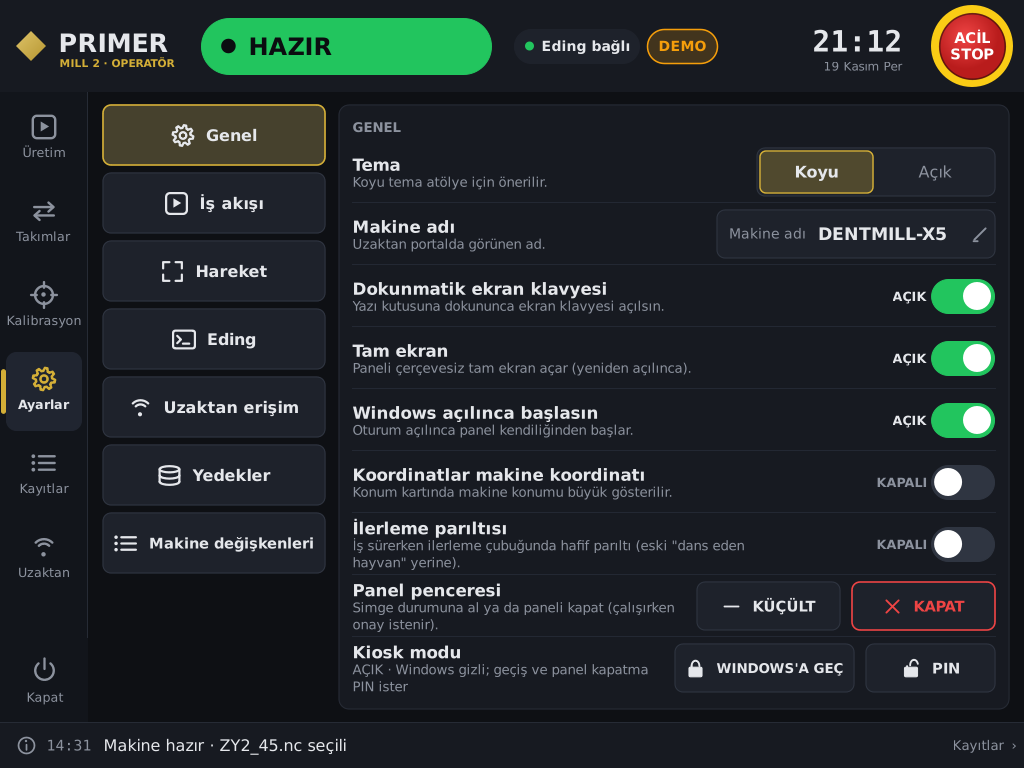
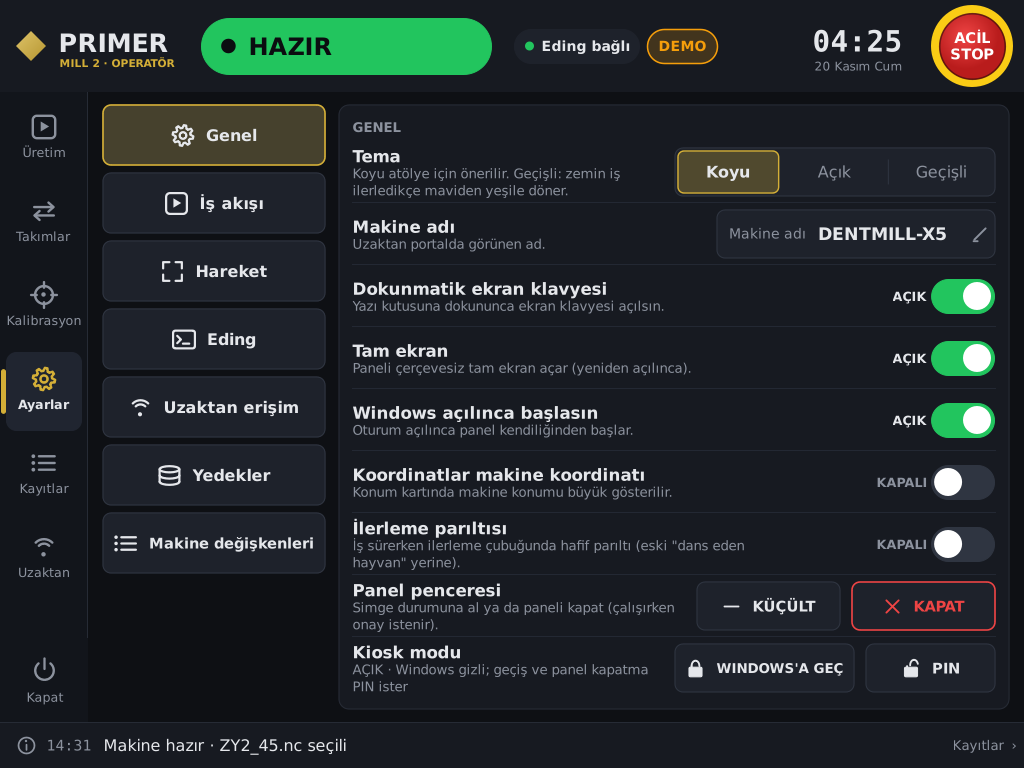
Gecisli tema: testler, ekran goruntuleri ve belgeler
Denetleyici_Testi: Tema-Normalle, ayar.kaydet Tema=gecisli/bilinmeyen, panel_ayarlar.ini, IsAktif.
EkranGoruntusu.cs: Uretim %0/%50/%100 (1024), %64 (1920), Ayarlar > Genel (Gecisli); Ayarlar > Genel
koyu goruntuleri yenilendi. ARAYUZ_API.md (Kabuk uyeleri, Tema anahtari, IsAktif, ozellik 15.6),
TASARIM.md 5 (Gecisli tema uclari, esleme, yumusatma), KURULUM_VE_DENEME.md demo adimi.

Claude-Session: https://claude.ai/code/session_01AzwqC4ZEM5pcPdzvYXdH7g

diff --git a/PrimerMill_Kod_Inceleme/tests/ui/EkranGoruntusu.cs b/PrimerMill_Kod_Inceleme/tests/ui/EkranGoruntusu.cs
@@ -16,7 +16,7 @@ static class EkranGoruntusu
     {
         public string Dosya;
         public int W, H;
-        public bool Koyu = true;
+        public TemaModu Mod = TemaModu.Koyu;
         public Action Hazirla;
     }
 
@@ -64,8 +64,9 @@ static class EkranGoruntusu
         if (sira >= adimlar.Count) { t.Stop(); Console.WriteLine(adimlar.Count + " ekran görüntüsü: " + cikis); k.Close(); return; }
         var a = adimlar[sira];
         if (k.Size.Width != a.W || k.Size.Height != a.H) { k.Size = new Size(a.W, a.H); k.Location = Point.Empty; }
-        if (Tema.Koyu != a.Koyu) k.TemaUygula(a.Koyu);
+        if (Tema.Mod != a.Mod) k.TemaUygula(a.Mod);
         try { a.Hazirla(); } catch (Exception ex) { Console.WriteLine("HATA " + a.Dosya + ": " + ex); }
+        k.GecisiTamamla(); // Geçişli: yumuşak geçişi beklemeden hedef renk
         k.Refresh();
         bekle = 6; // ~600 ms: yerleşim, ilerleme animasyonu ve diyalog çizimi otursun
     }
@@ -83,7 +84,11 @@ static class EkranGoruntusu
 
     static void Ekle(string dosya, int w, int h, bool koyu, Action hazirla)
     {
-        adimlar.Add(new Adim { Dosya = dosya, W = w, H = h, Koyu = koyu, Hazirla = hazirla });
+        Ekle(dosya, w, h, koyu ? TemaModu.Koyu : TemaModu.Acik, hazirla);
+    }
+    static void Ekle(string dosya, int w, int h, TemaModu mod, Action hazirla)
+    {
+        adimlar.Add(new Adim { Dosya = dosya, W = w, H = h, Mod = mod, Hazirla = hazirla });
     }
 
     // -----------------------------------------------------------------------------------------
@@ -156,6 +161,13 @@ static class EkranGoruntusu
         Ekle(no() + "_takimlar_acik_1024.png", 1024, 768, false, () => { Uygula(Hazir(), IzinHazir()); Git("takimlar"); k.Takimlar.SekmeGoster(0); k.Takimlar.Sec("T2"); });
         Ekle(no() + "_kal_oto_adim4_acik_1024.png", 1024, 768, false, () => { var d = Hazir(); Oto(d, 3); Uygula(d, IzinHazir()); Git("kalibrasyon"); k.Kalibrasyon.Sayfa("oto"); });
         Ekle(no() + "_uretim_acik_1920.png", 1920, 1080, false, () => { Calisiyor(); Git("uretim"); });
+        // Geçişli tema: zemin iş ilerledikçe maviden (0) yeşile (1) döner
+        var G = TemaModu.Gecisli;
+        Ekle(no() + "_uretim_gecisli_0_1024.png", 1024, 768, G, () => { var d = Hazir(); Uygula(d, IzinHazir()); Git("uretim"); });
+        Ekle(no() + "_uretim_gecisli_50_1024.png", 1024, 768, G, () => { var d = Ornek(); d.Yuzde = 50; d.Satir = 34876; d.GecenSn = 33 * 60; d.KalanSn = 33 * 60; Uygula(d, IzinCalisiyor()); Git("uretim"); });
+        Ekle(no() + "_uretim_gecisli_100_1024.png", 1024, 768, G, () => { var d = Bitti(); Uygula(d, IzinHazir()); Git("uretim"); });
+        Ekle(no() + "_uretim_gecisli_64_1920.png", 1920, 1080, G, () => { Calisiyor(); Git("uretim"); });
+        Ekle(no() + "_ayarlar_genel_gecisli_1024.png", 1024, 768, G, () => { var d = Ornek(); d.Yuzde = 30; d.Kiosk = true; d.Ayarlar["Tema"] = "gecisli"; Uygula(d, IzinCalisiyor()); Git("ayarlar.0"); });
     }
 
     static IEnumerable<Control> Tum(Control k)
@@ -237,7 +249,7 @@ static class EkranGoruntusu
         d.X = -64.250; d.Y = -52.000; d.Z = -12.345; d.A = 23.000; d.B = 0.000;
         d.MX = -117.557; d.MY = -89.166; d.MZ = -12.345; d.MA = 23.000; d.MB = 0.000;
         d.Takim = 2; d.TakimAciklama = "Ø1.0 küre frez"; d.FrezModu = "OTOMATIK";
-        d.Dosya = "ZY2_45.nc"; d.Blok = "#142"; d.Satir = 44812; d.ToplamSatir = 69751; d.Yuzde = 64.2;
+        d.Dosya = "ZY2_45.nc"; d.Blok = "#142"; d.Satir = 44812; d.ToplamSatir = 69751; d.Yuzde = 64.2; d.IsAktif = true;
         d.GecenSn = 42 * 60 + 10; d.KalanSn = 23 * 60 + 51; d.TahminiSn = 66 * 60; d.BitisSaati = "14:56";
         d.IsTakimlari = "T1 · T2 · T3";
         d.Hiz = 100;
@@ -295,8 +307,18 @@ static class EkranGoruntusu
     static MakineDurumu Hazir()
     {
         var d = Ornek();
-        d.Durum = Durum.Hazir; d.DurumMetni = "Hazır"; d.Satir = 0; d.Yuzde = 0; d.GecenSn = 0; d.KalanSn = 0; d.BitisSaati = null;
+        d.Durum = Durum.Hazir; d.DurumMetni = "Hazır"; d.Satir = 0; d.Yuzde = 0; d.GecenSn = 0; d.KalanSn = 0; d.BitisSaati = null; d.IsAktif = false;
         d.SonMesaj = "Makine hazır · ZY2_45.nc seçili"; d.SonMesajTuru = MesajTuru.Bilgi;
+        return d;
+    }
+
+    /// <summary>İş bitti (IsTamamlandi, %100): Geçişli temada tam yeşil.</summary>
+    static MakineDurumu Bitti()
+    {
+        var d = Ornek();
+        d.Durum = Durum.Hazir; d.DurumMetni = "Hazır"; d.IsAktif = false; d.IsTamamlandi = true; d.Yuzde = 100;
+        d.Satir = d.ToplamSatir; d.GecenSn = 65 * 60 + 40; d.KalanSn = 0;
+        d.SonMesaj = "ZY2_45.nc tamamlandı · 1:05:40"; d.SonMesajTuru = MesajTuru.Basari;
         return d;
     }
 

diff --git a/PrimerMill_Kod_Inceleme/TASARIM.md b/PrimerMill_Kod_Inceleme/TASARIM.md
@@ -144,6 +144,25 @@ Düğme durumları duruma göre değişir (tek kaynak: izin tablosu, §7):
 
 Düğmeler: dolgu = işlev rengi (BAŞLAT yeşil, DURAKLAT kehribar, DURDUR kırmızı, diğerleri kart rengi + kenar). Pasif düğme %35 opaklık. Basılıyken 1 kademe koyu. 8 px köşe yarıçapı.
 
+### Geçişli tema (3. tema)
+
+Ayarlar › Genel › Tema: **Koyu / Açık / Geçişli** (`panel_ayarlar.ini` `Tema=koyu|acik|gecisli`, bilinmeyen = koyu; açılışta uygulanır). Geçişli tema koyu tabanlıdır: durum renkleri, marka altını ve düğme dolguları Koyu ile aynıdır; yalnız **yüzey belirteçleri** (zemin, kart, kart kenarı, düğme zemini/kenarı, menü, ayraç/iz, seçili, gölge) işin ilerlemesine göre **maviden yeşile** kesintisiz kayar.
+
+| Belirteç | Mavi uç (t = 0) | Yeşil uç (t = 1) |
+| --- | --- | --- |
+| Zemin | `#08142D` | `#071A11` |
+| Kart | `#0F1F42` | `#0C281A` |
+| Kart kenarı | `#1E3466` | `#1B4D33` |
+| Düğme / kenar | `#16284F` / `#27407A` | `#112F21` / `#22593D` |
+| Menü | `#0B1836` | `#091F15` |
+| Ayraç (ilerleme izi) | `#1A2D5A` | `#174230` |
+| Yazı / soluk yazı | `#F3F4F6` / `#A0A7B4` | aynı |
+
+- **Eşleme:** iş bitti (`IsTamamlandi`, %100) → t = 1 (yeni dosya seçilene / panel sıfırlanana kadar tam yeşil); iş sürüyor veya duraklatıldı (`IsAktif` ve ÇALIŞIYOR/DURAKLATILDI) → t = `Yuzde`/100; iş yok → t = 0 (mavi).
+- **Ara renkler:** uçlar arasında OKLab'da doğrusal karışım (mavi → camgöbeği → yeşil; parlaklık sabit kalır, çamurlu gri geçiş yok), her 8 bitlik ara renk görünür.
+- **Hareket:** denetleyici `Yuzde`'yi 200 ms'de bir verir; Kabuk'taki 33 ms'lik zamanlayıcı gösterilen t'yi üstel yumuşatmayla (τ ≈ 0,45 s) hedefe taşır, yalnız 8 bitlik renk değişen karelerde yüzeyleri yeniden boyar ve |hedef − gösterilen| < 0,001 olunca durur (boşta CPU yükü yok). Koyu ve Açık temada zamanlayıcı hiç çalışmaz.
+- **Kontrast:** yazı/kart kontrastı her t'de Koyu temadakinden düşük değil (≥ 14:1; soluk yazı ≥ 6,7:1). Renkli zeminde durum hapı ve ilerleme çubuğu ince yarı saydam beyaz çerçeveyle ayrışır (ÇALIŞIYOR mavi hap mavi zeminde, HAZIR yeşil hap yeşil zeminde).
+
 ### Yazı
 
 - Arayüz: **Segoe UI** (yoksa DejaVu Sans / Arial). Sayılar: **Consolas** (yoksa DejaVu Sans Mono), sabit genişlik → titremez.
@@ -151,7 +170,7 @@ Düğmeler: dolgu = işlev rengi (BAŞLAT yeşil, DURAKLAT kehribar, DURDUR kır
 
 ### Hareket
 
-Geçişler 150 ms (ekran değişiminde içerik solarak gelir, ilerleme çubuğu yumuşak ilerler). Alarmda durum hapı 1 Hz yanıp söner. Başka animasyon yok.
+Geçişler 150 ms (ekran değişiminde içerik solarak gelir, ilerleme çubuğu yumuşak ilerler). Alarmda durum hapı 1 Hz yanıp söner. Geçişli temada zemin rengi ilerlemeyle yavaşça kayar (yukarıda). Başka animasyon yok.
 
 ## 6. Onay düzeyleri
 

diff --git a/PrimerMill_Kod_Inceleme/KURULUM_VE_DENEME.md b/PrimerMill_Kod_Inceleme/KURULUM_VE_DENEME.md
@@ -29,6 +29,7 @@ teslim/
    - Açılış geri sayımı: süre dolunca **hiçbir şey yapmamalı** (yeni güvenlik); ŞİMDİ BAŞLA → home.
    - İŞ SEÇ → `ORNEK_ZY2_45_kisa` → BAŞLAT → DURAKLAT. Duraklıyken jog, pens aç, MDI, G54 kaydet **soluk ve nedenli** olmalı. DEVAM → iş biter.
    - Takımlar, Kalibrasyon (otomatik sihirbaz prob testi geçmeden ② adımından ileri gitmemeli), Ayarlar › Makine değişkenleri (KAYDET → kırmızı tehlikeli onay, eski/yeni değerler, yedek dosya adı), Kayıtlar (MDI onayı), Uzaktan (`http://127.0.0.1:8080`, 6 haneli PIN).
+   - Ayarlar › Genel › Tema › **Geçişli**: zemin maviye döner; iş başlatılınca yüzde ilerledikçe zemin ve kartlar sıçramadan camgöbeği üzerinden yeşile kaymalı, iş bitince tam yeşil kalmalı, yeni dosya seçilince yavaşça maviye dönmeli. Yazılar ve durum hapı her renkte okunur olmalı. Panel kapatılıp açılınca tema korunmalı (`panel_ayarlar.ini` `Tema=gecisli`). Koyu/Açık'a dönüş anında olmalı.
    - Herhangi bir diyalogda **Esc = ACİL STOP** olmalı.
    - `teslim\PrimerMill\loglar\Panel_*.log` içinde `PROGRAM HATASI` satırı olmamalı.
    Sorun görürseniz `HataBul.bat` çalıştırıp çıkan metni ve log dosyasını saklayın.
